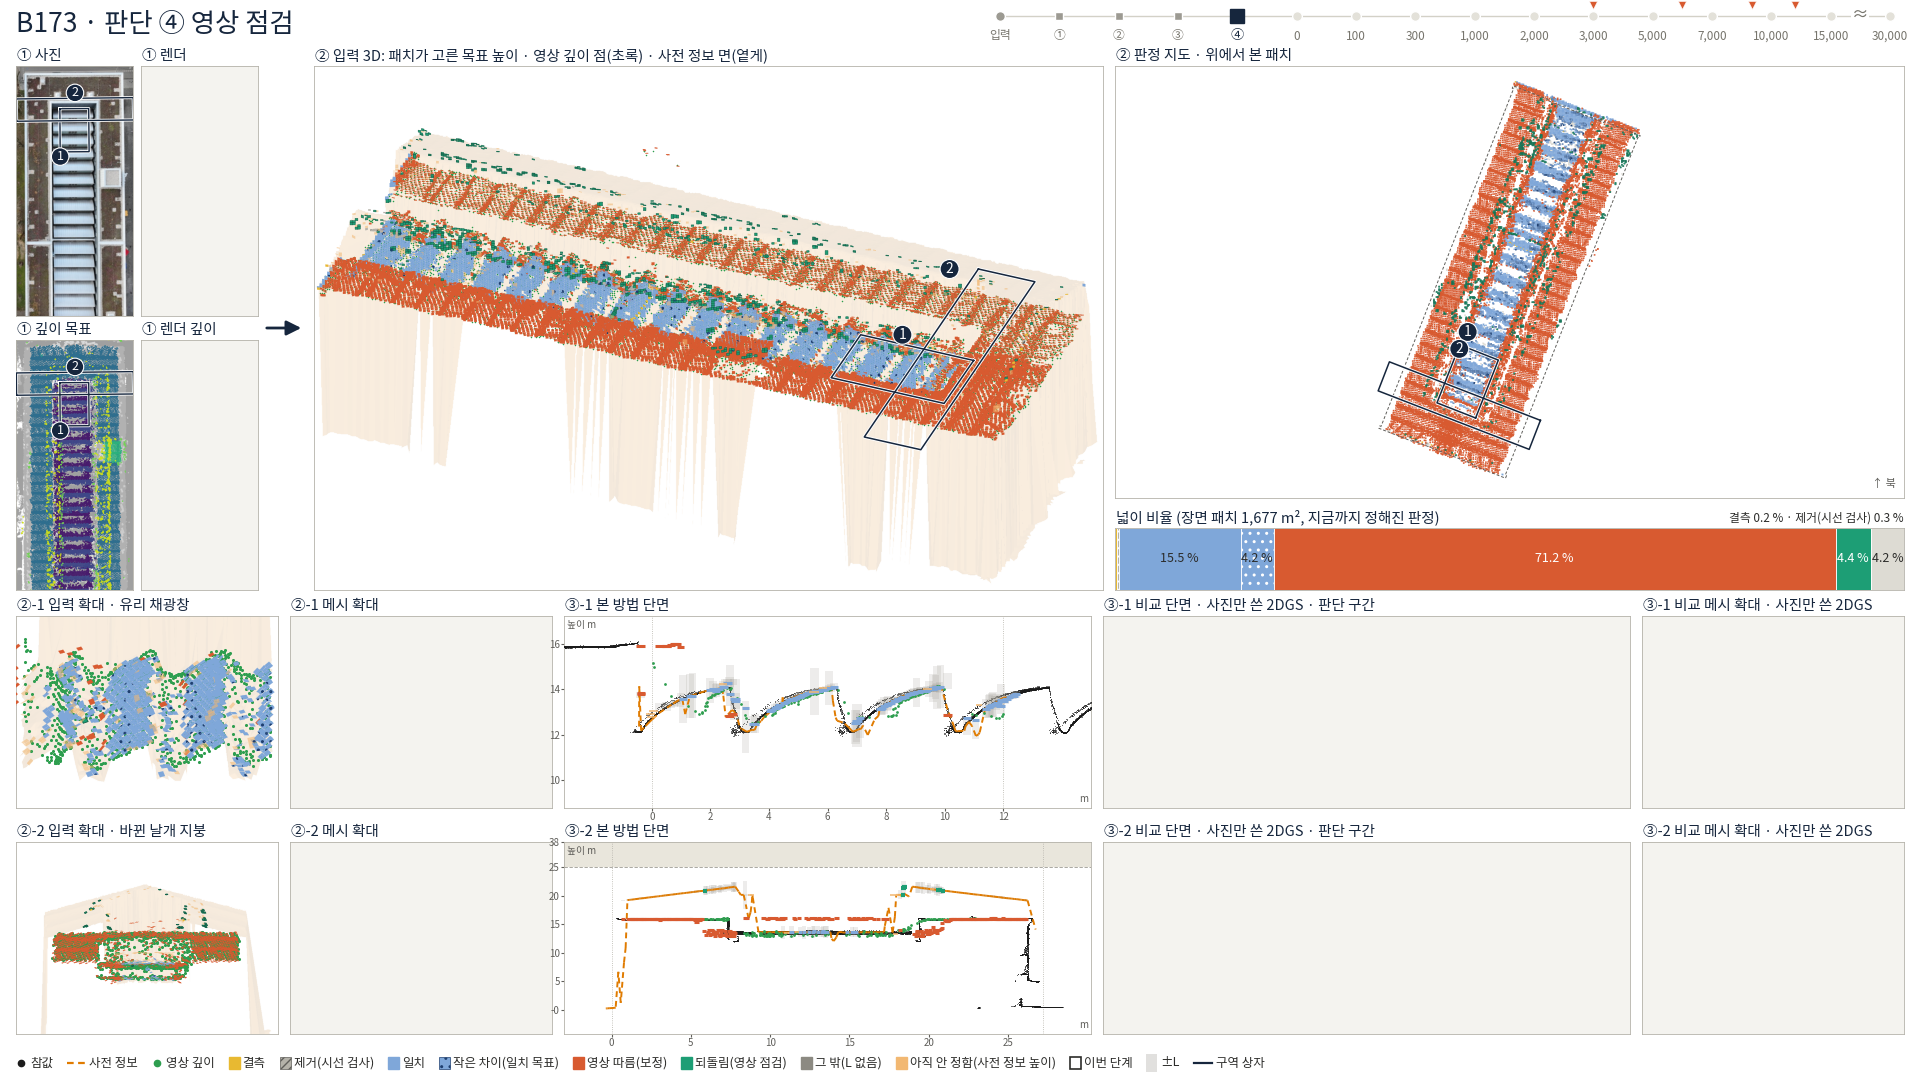
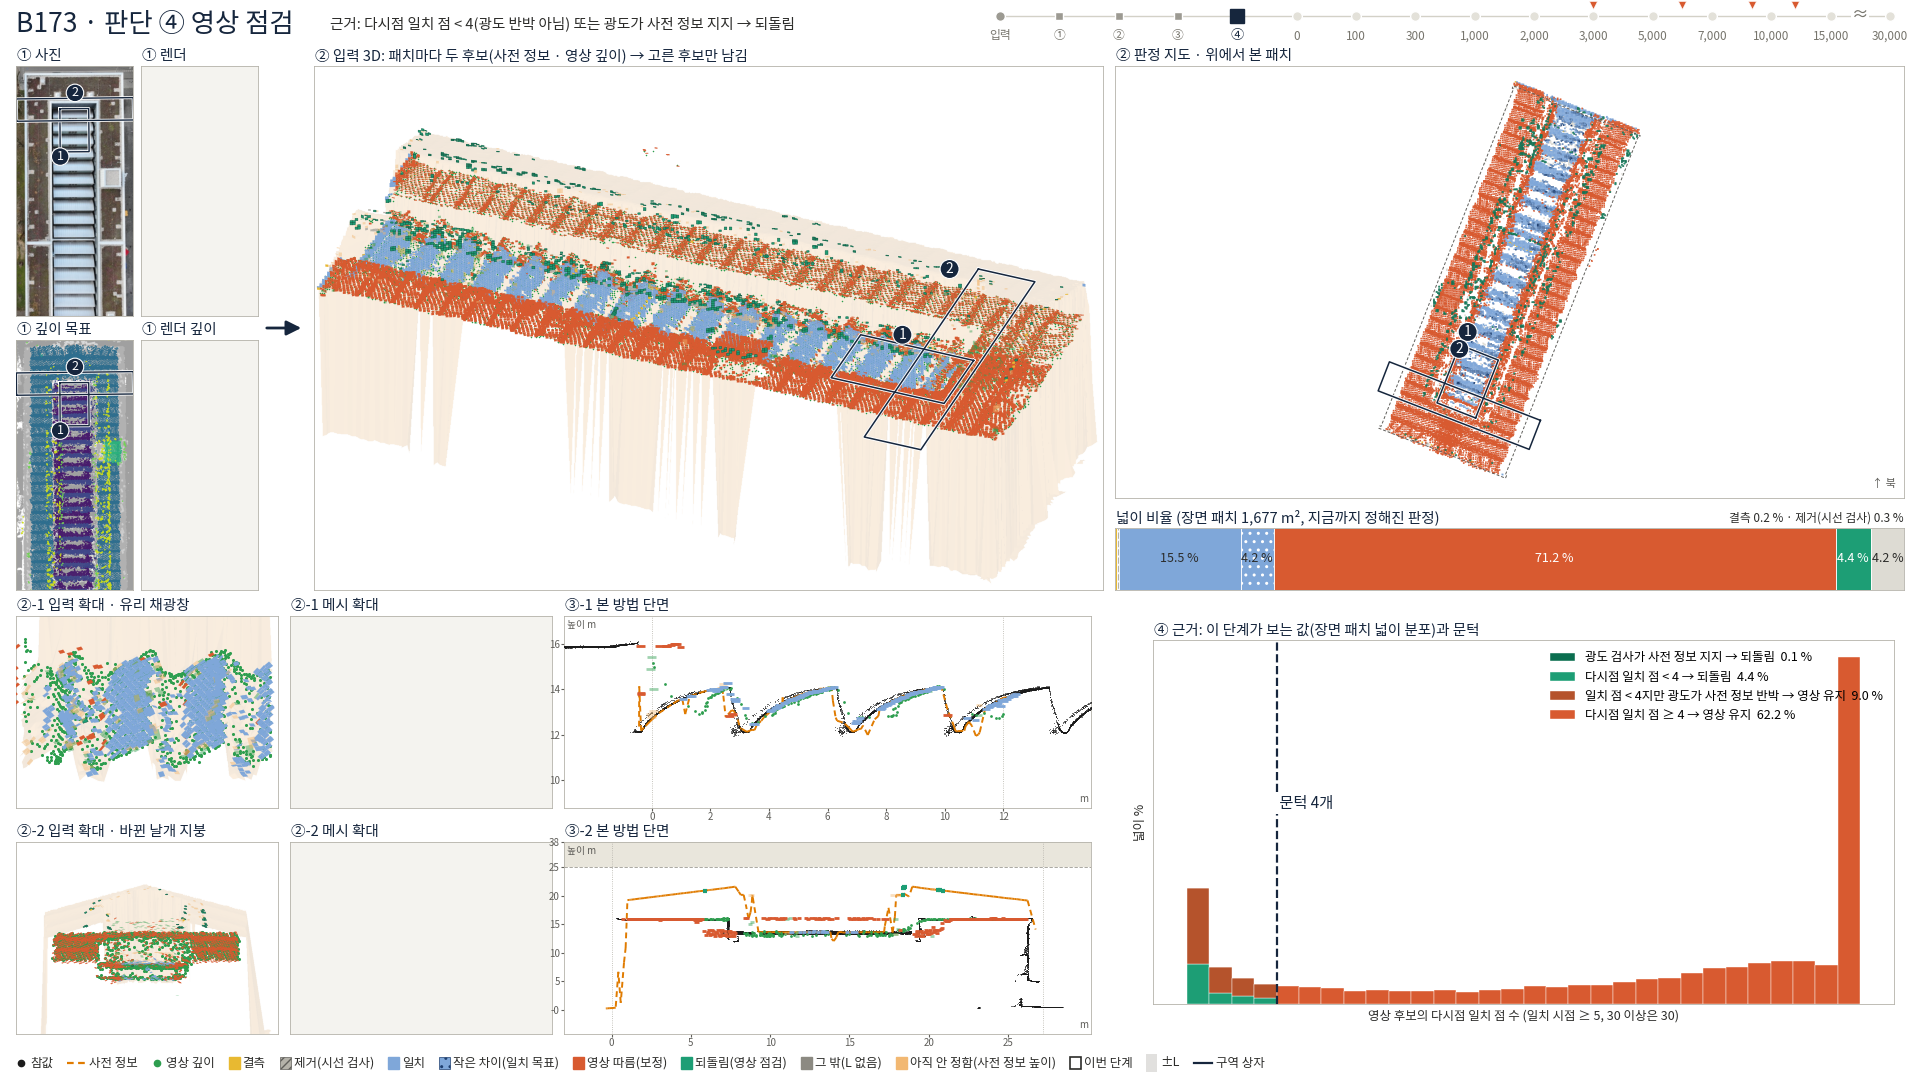
PHD-MAIN-JUDGEVIDEO-v1 v3: 두 후보 중 고른 후보만 남김, 단계별 근거 칸(값 분포·문턱)과 근거 문장, ④ 규칙 = combo_D_returned 대조

diff --git a/scripts/phd/main_judgevideo_v1/jv_frames.py b/scripts/phd/main_judgevideo_v1/jv_frames.py
@@ -62,6 +62,33 @@ def shown_h(p, stage):
     return h
 
 UNDEC_3D = '#F2B872'
+RULE = {'j1': '근거: 패치 원통 안 영상 깊이 점이 4개 미만 → 영상 후보 없음, 사전 정보만 남김 (시선 검사로 지운 점 포함)',
+        'j2': '근거: 두 후보의 차이 |d| 가 검출 한계 L 안 → 같은 면(일치), 두 후보의 가중 평균을 남김',
+        'j3': '근거: 차이가 유의할 때 |d| < 1.10 m(혼합 경계) → 작은 차이, 일치 목표 / |d| ≥ 1.10 m → 영상 후보를 남김',
+        'j4': '근거: 다시점 일치 점 < 4(광도 반박 아님) 또는 광도가 사전 정보 지지 → 되돌림',
+        'res': '판단 결과: 패치마다 남은 후보 하나 = 학습의 깊이 목표'}
+def layers(p, cat):
+    """candidates shown for each category: 0 = both candidates faint (prior tan, image green); decided = the kept candidate in its judgment colour."""
+    hP = p['prior_h']; hM = p['mvs_h']; tg = np.where(np.isfinite(p['target_h']), p['target_h'], hP); L = []
+    m0 = cat == 0; L += [(m0, hP, UNDEC_3D, .45), (m0 & np.isfinite(hM), hM, cf.MVC, .45)]
+    for k, h in [(1, hP), (11, hP), (2, tg), (3, tg), (31, hM), (4, hP), (5, tg)]: L.append((cat == k, h, SC[k], 1.))
+    return L
+def cand(p, cat, prevcat, new, a):
+    """all quads of this frame: (h, rgb, alpha, patch index). Non-new patches: their layers. New: previous layers fading out, new layers fading in."""
+    H, C, A, I = [], [], [], []
+    for which, cc, f in [(~new, cat, 1.), (new, prevcat, 1-a), (new, cat, a)]:
+        for m, h, col, al in layers(p, cc):
+            mm = m & which & np.isfinite(h)
+            if not mm.any() or al*f <= .01: continue
+            ix = np.flatnonzero(mm); H.append(h[ix]); C.append(np.broadcast_to(to_rgb(col), (len(ix), 3))); A.append(np.full(len(ix), al*f)); I.append(ix)
+    return np.concatenate(H), np.concatenate(C), np.concatenate(A), np.concatenate(I)
+def paint_c(ax, S, p, cq, view=None, sel=None, new=None, zorder=9):
+    H, C, A, I = cq
+    if sel is not None: k = sel[I]; H, C, A, I = H[k], C[k], A[k], I[k]
+    sub = {kk: p[kk][I] for kk in ('normal', 'tangent1', 'area', 'centre')}; Q = quads_h(sub, H); x, y, d = S.proj(Q.reshape(-1, 3), *(view or (None, None)))
+    Q2 = np.stack([x, y], 1).reshape(-1, 4, 2); o = np.argsort(-d.reshape(-1, 4).mean(1)); nw = new[I] if new is not None else np.zeros(len(I), bool)
+    ec = np.where(nw[:, None], .6*C, C)
+    ax.add_collection(PolyCollection(Q2[o], facecolors=np.c_[C, A][o], edgecolors=np.c_[ec, A][o], linewidths=np.where(nw, .35, .1)[o], zorder=zorder))
 def paint(ax, Q2, d, cat, new, alpha, lw_new=.35, zorder=9):
     """One painter-sorted collection (far first): not decided = prior colour at alpha .55, decided = its judgment colour, new = fading in with a darker edge;
     hatched categories get a hatch overlay."""
@@ -94,8 +121,10 @@ def visible(F, P, dep, ext, view=None):
 def draw(F, stage, alpha, png, cache, p):
     S = F.S; st = F.st; t0 = time.monotonic(); fig = F.fig = plt.figure(figsize=(W_/100, H_/100), dpi=100, facecolor='white')
     cat = stage_colours(p['step'], stage); new = np.isin(cat, NEW[stage])
-    prev = 'start' if stage == 'j1' else STAGES[STAGES.index(stage)-1]; h0, h1 = shown_h(p, prev), shown_h(p, stage); hh = h0+alpha*(h1-h0); Q = quads_h(p, hh)
+    prevcat = np.zeros(len(cat), int) if stage == 'j1' else stage_colours(p['step'], STAGES[STAGES.index(stage)-1]); cq = cand(p, cat, prevcat, new, alpha)
+    Q = quads_h(p, shown_h(p, stage))   # map xy and ① (kept candidate; not decided = no target yet)
     fig.text(16/W_, 1-24/H_, f'{BNAME} · {STITLE[stage]}', fontsize=19, color=NAVY, va='center', fontweight='bold')
+    fig.text(330/W_, 1-24/H_, RULE[stage], fontsize=10.5, color='#2C2C2A', va='center')
     # progress row: 입력, ①-④, 0 ... 30,000 (the r6 row with four dots inserted)
     labs = ['input', 'j1', 'j2', 'j3', 'j4']+cf.STATES; xs = np.linspace(1000, 1890, len(labs)); cur = labs.index('j4' if stage == 'res' else stage)
     ax = fig.add_axes([0, 1-44/H_, 1, 44/H_]); ax.set_xlim(0, W_); ax.set_ylim(44, 0); ax.axis('off'); ax.plot([xs[0], xs[-1]], [16, 16], color='#D3D1C7', lw=1, zorder=1)
@@ -112,7 +141,7 @@ def draw(F, stage, alpha, png, cache, p):
     a = F.axes(X0, Y0, pw, ph, '① 사진'); F.cam(a, cache['photo'])
     a = F.axes(X0, Y0+ph+24, pw, ph, '① 깊이 목표'); F.cam(a, cache['grey'], zones=False)
     u, v, zc = S.pix(Q.reshape(-1, 3)); Qc = np.stack([u, v], 1).reshape(-1, 4, 2); zc = zc.reshape(-1, 4).mean(1); hz = Q.mean(1)[:, 2]-S.ground
-    bi = np.clip(np.searchsorted(F.bins, hz, side='right')-1, 0, cf.NBIN-1); o = np.argsort(-zc); ok = np.isfinite(Qc).all((1, 2))[o]
+    bi = np.clip(np.searchsorted(F.bins, hz, side='right')-1, 0, cf.NBIN-1); o = np.argsort(-zc); ok = (np.isfinite(Qc).all((1, 2)) & (cat > 0))[o]
     a.add_collection(PolyCollection(Qc[o][ok], facecolors=F.hcol[bi[o][ok]], edgecolors=F.hcol[bi[o][ok]], linewidths=.2, zorder=8))
     for k_, z in S.zones.items():
         ring = np.asarray(F.sj['zones'][str(k_)]['box_polygon_xy']); P_ = np.c_[ring, np.full(len(ring), F.sj['zones'][str(k_)]['outline_z'])]; uu, vv, _ = S.pix(P_)
@@ -123,11 +152,11 @@ def draw(F, stage, alpha, png, cache, p):
     ar = FancyArrowPatch(((X0+2*pw+gap+6)/W_, 1-(Y0+ph+12)/H_), ((X0+2*pw+gap+46)/W_, 1-(Y0+ph+12)/H_), transform=fig.transFigure, arrowstyle='-|>', mutation_scale=22, color=NAVY, lw=2); fig.patches.append(ar)
     # ② input 3D
     X2 = X0+2*pw+gap+56; w2 = (W_-16-X2-12)//2; h2 = 2*ph+24; ext = cache['ext']
-    ag = F.axes(X2, Y0, w2, h2, '② 입력 3D: 패치가 고른 목표 높이 · 영상 깊이 점(초록) · 사전 정보 면(옅게)')
+    ag = F.axes(X2, Y0, w2, h2, '② 입력 3D: 패치마다 두 후보(사전 정보 · 영상 깊이) → 고른 후보만 남김')
     img, dep = cache['prior_overview']; ag.imshow(np.dstack([img, np.where(np.isfinite(dep), .22, 0.)]), extent=ext, zorder=1); ag.set_xlim(ext[0], ext[1]); ag.set_ylim(ext[2], ext[3]); ag.set_aspect('equal')
     F.mvs_points(ag, np.full_like(dep, np.inf), ext, w2, h2, 2, 1.2)
-    x, y, d = S.proj(Q.reshape(-1, 3)); Q2 = np.stack([x, y], 1).reshape(-1, 4, 2); dd = d.reshape(-1, 4).mean(1)
-    paint(ag, Q2, dd, cat, new, alpha); F.zone_outline(ag, 1); F.zone_outline(ag, 2)
+    x, y, d = S.proj(Q.reshape(-1, 3)); Q2 = np.stack([x, y], 1).reshape(-1, 4, 2)
+    paint_c(ag, S, p, cq, new=new); F.zone_outline(ag, 1); F.zone_outline(ag, 2)
     if stage == 'j1':
         m = new.copy(); ag.scatter(Q2[m].mean(1)[:, 0], Q2[m].mean(1)[:, 1], s=60, facecolors='none', edgecolors=[SC[c_] for c_ in cat[m]], linewidths=1.1, alpha=alpha, zorder=12)
     # ② map (top view) + bar
@@ -160,19 +189,25 @@ def draw(F, stage, alpha, png, cache, p):
         Y = 616+row*226; zj = F.sj['zones'][str(k)]; zext = F.frame_ext(zj['zoom_extent'], wz, hz, .06); zv = (np.asarray(zj['zoom_basis']), np.asarray(zj['zoom_centre'])); cn = cf.COMP[k]['name']
         xg = 16; xm = xg+wz+gz; xs1 = xm+wz+gz; xs2 = xs1+ws+gz; xc = xs2+ws+gz
         a_g = F.axes(xg, Y, wz, hz, f'②-{k} 입력 확대 · {cf.ZNAME[k]}'); F.blank(F.axes(xm, Y, wz, hz, f'②-{k} 메시 확대'))
-        a_s = F.axes(xs1, Y, ws, hz, f'③-{k} 본 방법 단면'); a_c = F.axes(xs2, Y, ws, hz, f'③-{k} 비교 단면 · {cn} · 판단 구간'); F.blank(a_c); F.blank(F.axes(xc, Y, wz, hz, f'③-{k} 비교 메시 확대 · {cn}'))
+        a_s = F.axes(xs1, Y, ws, hz, f'③-{k} 본 방법 단면'); 
         zimg, zdep = cache[f'prior_zoom{k}']; a_g.imshow(np.dstack([zimg, np.where(np.isfinite(zdep), .22, 0.)]), extent=zext, zorder=1); F.mvs_points(a_g, np.full_like(zdep, np.inf), zext, wz, hz, 3, 5, zone=k, view=zv)
-        zsel = cache[f'zsel{k}']; x, y, d = S.proj(Q[zsel].reshape(-1, 3), *zv); Qz = np.stack([x, y], 1).reshape(-1, 4, 2); dz = d.reshape(-1, 4).mean(1)
-        paint(a_g, Qz, dz, cat[zsel], new[zsel], alpha, lw_new=.6); a_g.set_xlim(zext[0], zext[1]); a_g.set_ylim(zext[2], zext[3]); a_g.set_aspect('equal')
+        zsel = cache[f'zsel{k}']; paint_c(a_g, S, p, cq, view=zv, sel=zsel, new=new); a_g.set_xlim(zext[0], zext[1]); a_g.set_ylim(zext[2], zext[3]); a_g.set_aspect('equal')
         F.section(a_s, k, layers=('gt', 'prior', 'mvs'))
         b = cache[f'band{k}']; Yf = lambda h: F.ymap(k, h); cb = cat[b['i']]
-        if STAGES.index(stage) >= 1:   # +-L band of every patch in the band (grey)
+        if stage == 'j2':   # evidence of step 2: +-L band of every patch in the band (grey)
             ok = np.isfinite(b['L']); a_s.add_collection(PolyCollection([[(s0-b['w'][j], Yf(h-l)), (s0+b['w'][j], Yf(h-l)), (s0+b['w'][j], Yf(h+l)), (s0-b['w'][j], Yf(h+l))]
                                                                          for j, (s0, h, l) in enumerate(zip(b['s'], b['hp'], b['L']*b['nz'])) if ok[j]], facecolors='#9C9A92', edgecolors='none', alpha=.18, zorder=3.5))
-        hb = Q[b['i']].mean(1)[:, 2]-S.ground; ok = np.isfinite(hb)
-        segs = [[(b['s'][j]-b['w'][j], Yf(hb[j])), (b['s'][j]+b['w'][j], Yf(hb[j]))] for j in np.flatnonzero(ok)]
-        rgba = [(*to_rgb(UNDEC_3D if cb[j] == 0 else SC[cb[j]]), .8 if cb[j] == 0 else 1.) for j in np.flatnonzero(ok)]; lws = [1.4 if cb[j] == 0 else (3. if new[b['i'][j]] else 2.2) for j in np.flatnonzero(ok)]
-        if segs: a_s.add_collection(LineCollection(segs, colors=rgba, linewidths=lws, zorder=6, capstyle='butt'))
+        H, Cc, Aa, I = cq; pos = {int(i): j for j, i in enumerate(b['i'])}; kk = np.array([int(i) in pos for i in I])
+        if kk.any():
+            jj = np.array([pos[int(i)] for i in I[kk]]); nz = b['nz'][jj]; hh_ = (p['centre'][I[kk], 2]+p['normal'][I[kk], 2]*H[kk])-S.ground
+            segs = [[(b['s'][j]-b['w'][j], Yf(h_)), (b['s'][j]+b['w'][j], Yf(h_))] for j, h_ in zip(jj, hh_)]; nw = new[I[kk]]
+            a_s.add_collection(LineCollection(segs, colors=np.c_[Cc[kk], Aa[kk]], linewidths=np.where(nw, 3., 2.), zorder=6, capstyle='butt'))
+        if stage == 'j3':   # evidence of step 3: +-1.10 m around the prior candidate of the significant patches
+            sg = p['sig'][b['i']]; ok3 = sg & np.isfinite(b['hp'])
+            a_s.add_collection(LineCollection([[(s0-b['w'][j], Yf(h+1.10*nz_)), (s0+b['w'][j], Yf(h+1.10*nz_))] for j, (s0, h, nz_) in enumerate(zip(b['s'], b['hp'], b['nz'])) if ok3[j]]
+                                              + [[(s0-b['w'][j], Yf(h-1.10*nz_)), (s0+b['w'][j], Yf(h-1.10*nz_))] for j, (s0, h, nz_) in enumerate(zip(b['s'], b['hp'], b['nz'])) if ok3[j]], colors='#5F5E5A', linewidths=.6, zorder=5.5))
+    ae = F.axes(xs2+50, 616+24, W_-16-xs2-60, 2*hz+226-hz-24-30, '④ 근거: 이 단계가 보는 값(장면 패치 넓이 분포)과 문턱' if stage != 'res' else '판단 결과: 판정 · 근거 · 넓이')
+    evidence(ae, stage, p, cat, alpha, cache['Atot'])
     # legend
     lax = fig.add_axes([0, 0, 1, 34/H_]); lax.axis('off'); lax.set_xlim(0, W_); lax.set_ylim(0, 34); x = 16
     items = [('pt', GTC, '참값'), ('dash', PRC, '사전 정보'), ('pt', MVC, '영상 깊이'), ('box', SC[1], '결측'), ('hbox', 11, '제거(시선 검사)'), ('box', SC[2], '일치'), ('hbox', 3, '작은 차이(일치 목표)'),
@@ -187,6 +222,41 @@ def draw(F, stage, alpha, png, cache, p):
         x += 14 if kind in ('pt', 'box', 'hbox', 'edge', 'lband') else 22; t = lax.text(x, 17, txt, fontsize=9, va='center', color='#2C2C2A'); x += t.get_window_extent(fig.canvas.get_renderer()).width+14
     png.parent.mkdir(parents=True, exist_ok=True); fig.savefig(png, dpi=100, facecolor='white'); plt.close(fig)
     return round(time.monotonic()-t0, 1)
+
+def evidence(ax, stage, p, cat, alpha, Atot):
+    A = p['area']; ax.tick_params(labelsize=8, colors='#5F5E5A'); ax.set_xticks([]); ax.set_yticks([])
+    def hist(x, groups, bins, logx=False, thr=None, thr_lab='', xlab=''):
+        bottom = np.zeros(len(bins)-1)
+        for m, col, lab, hatch in groups:
+            ok = m & np.isfinite(x); h, _ = np.histogram(x[ok], bins=bins, weights=A[ok]); h = 100*h/Atot
+            ax.bar(bins[:-1], h, width=np.diff(bins), bottom=bottom, align='edge', color=col, edgecolor='white', lw=.3, hatch=hatch, label=f'{lab}  {100*A[ok].sum()/Atot:.1f} %'); bottom += h
+        if logx: ax.set_xscale('log')
+        if thr is not None:
+            ax.axvline(thr, color=NAVY, lw=1.6, ls='--'); ax.text(thr, .55, f' {thr_lab}', transform=ax.get_xaxis_transform(), color=NAVY, fontsize=11, va='center', ha='left', fontweight='bold', bbox=dict(fc='white', ec='none', pad=1))
+        ax.set_xlabel(xlab, fontsize=9, color='#2C2C2A'); ax.set_ylabel('넓이 %', fontsize=9, color='#2C2C2A'); ax.tick_params(axis='both', labelsize=8, length=2)
+        ax.legend(loc='upper right', fontsize=9, frameon=False)
+    sig = p['sig']; n = p['n'].astype(float); dabs = np.abs(p['d']); L = p['L']
+    if stage == 'j1':
+        hist(np.minimum(n, 40), [(n < 4, SC[1], '영상 점 < 4 → 사전 정보만', None), (n >= 4, '#C9C6BC', '영상 점 ≥ 4 → 다음 단계로', None)], np.arange(0, 41, 1), thr=4, thr_lab='문턱 4개', xlab='패치 원통 안 영상 깊이 점 수 (40 이상은 40)')
+    elif stage == 'j2':
+        r = dabs/L; inn = (n >= 4) & np.isfinite(r)
+        hist(np.clip(r, .01, 100), [(inn & ~sig, SC[2], '|d| ≤ L: 일치 → 가중 평균', None), (inn & sig, '#C9C6BC', '|d| > L: 유의한 차이 → 다음 단계로', None)], np.logspace(-2, 2, 41), True, 1., '|d| = L', '두 후보 차이 ÷ 검출 한계 (|d| / L, 로그)')
+    elif stage == 'j3':
+        hist(np.clip(dabs, .02, 20), [(sig & (p['mix'] == 0), SC[3], '|d| < 1.10 m: 작은 차이 → 일치 목표', '..'), (sig & (p['mix'] == 1), SC[31], '|d| ≥ 1.10 m: 영상 후보를 남김', None)], np.logspace(np.log10(.02), np.log10(20), 41), True, 1.10, '1.10 m', '유의한 패치의 두 후보 차이 |d| m (로그)')
+    elif stage == 'j4':
+        big = sig & (p['mix'] == 1); a2 = np.minimum(p['a2n'].astype(float), 30); ph = p['photo']
+        hist(a2, [(big & p['ret'] & (ph == '지지'), '#0B6E4F', '광도 검사가 사전 정보 지지 → 되돌림', None), (big & p['ret'] & (ph != '지지'), SC[4], '다시점 일치 점 < 4 → 되돌림', None),
+                  (big & ~p['ret'] & (a2 < 4), '#B5532C', '일치 점 < 4지만 광도가 사전 정보 반박 → 영상 유지', None), (big & ~p['ret'] & (a2 >= 4), SC[31], '다시점 일치 점 ≥ 4 → 영상 유지', None)],
+             np.arange(0, 31, 1), thr=4, thr_lab='문턱 4개', xlab='영상 후보의 다시점 일치 점 수 (일치 시점 ≥ 5, 30 이상은 30)')
+    else:
+        rows = [(1, '영상 점 < 4'), (11, '시선 검사로 영상 점 지움'), (2, '|d| ≤ L'), (3, '|d| > L, |d| < 1.10 m'), (31, '|d| ≥ 1.10 m, 다시점·광도 통과'), (4, '|d| ≥ 1.10 m, 다시점 부족 또는 광도 지지'), (5, '면 맞춤 불가(L 없음), 저장 판정')]
+        keep = {1: '사전 정보', 11: '사전 정보', 2: '가중 평균', 3: '가중 평균', 31: '영상 깊이', 4: '사전 정보', 5: '저장 판정대로'}
+        ax.set_xlim(0, 1); ax.set_ylim(len(rows)+.5, -.8); ax.axis('off')
+        for x_, t in [(.02, '판정'), (.30, '근거'), (.72, '남긴 후보'), (.92, '넓이 %')]: ax.text(x_, -.4, t, fontsize=10, color=NAVY, fontweight='bold')
+        for i, (k, why) in enumerate(rows):
+            y = i+.5; ax.add_patch(plt.Rectangle((.0, y-.3), .015, .6, color=SC[k], hatch=HATCH.get(k)))
+            ax.text(.02, y, SN[k], fontsize=10, va='center'); ax.text(.30, y, why, fontsize=10, va='center'); ax.text(.72, y, keep[k], fontsize=10, va='center')
+            ax.text(.98, y, f'{100*A[cat == k].sum()/Atot:.1f}', fontsize=10, va='center', ha='right')
 
 def prepare(F):
     S = F.S; st = F.st; p = loadz(OUT/'scene_patches_ALS.npz'); cache = dict(p=p); Q = quads(p); cache['Q'] = Q; cache['Atot'] = float(p['area'].sum())

diff --git a/scripts/phd/main_judgevideo_v1/jv_prep.py b/scripts/phd/main_judgevideo_v1/jv_prep.py
@@ -21,7 +21,7 @@ from pathlib import Path
 MF = Path('/art/phase-payloads/phd/main_mvsfilter_v1/PHD-MAIN-MVSFILTER-v1/judge/patches4_ALS.csv.gz')
 JP = Path('/art/phase-payloads/phd/main_judgeprobe_v1/PHD-MAIN-JUDGEPROBE-v1/patch_ALS.npz')
 OUT = Path('/out'); JD = Path('/jdocs')
-COLS = ['patch_index', 'patch_id', 'kind', 'area', 'none_n', 'none_judgment', 'none_significant', 'region', 'building', 'd_m', 'L_m', 'mix_large', 'combo_D_returned', 'combo_D_judgment']
+COLS = ['patch_index', 'patch_id', 'kind', 'area', 'none_n', 'none_judgment', 'none_significant', 'region', 'building', 'd_m', 'L_m', 'mix_large', 'combo_D_returned', 'combo_D_judgment', 'A2_n', 'photo_result']
 STEPN = {0: '아직 안 정함', 1: '① 결측', 11: '① 제거(시선 검사)', 2: '② 일치', 3: '③ 작은 차이(일치 목표)', 31: '③ 영상 따름', 4: '④ 되돌림(영상 점검)'}
 def main():
     c = cfg(); t = pd.read_csv(MF, usecols=COLS); z = loadz(JP, ['centre', 'normal', 'tangent1', 'area', 'prior_height_m', 'mvs_mean_m', 'sigma_P', 'u_M', 'd_m', 'L_m', 'n', 'kind'])
@@ -45,7 +45,10 @@ def main():
     with np.errstate(invalid='ignore', divide='ignore'): wavg = (hP/sP**2 + hM/uM**2)/(1/sP**2 + 1/uM**2)
     tgt = np.where(fin == 2, hM, np.where(fin == 0, np.where(np.isfinite(wavg), wavg, hP), hP))
     savez(OUT/'scene_patches_ALS.npz', patch_index=ix, patch_id=np.array(s['patch_id'].astype(str).tolist()), step=step, final=fin, area=s['area'].values.astype(float), centre=P[ix], normal=z['normal'][ix], tangent1=z['tangent1'][ix],
-          prior_h=hP, mvs_h=hM, target_h=tgt, L=s['L_m'].values.astype(float), d=s['d_m'].values.astype(float), n=n.astype(int), sig=sig.astype(bool), mix=mix.astype(float), ret=ret.astype(bool))
+          prior_h=hP, mvs_h=hM, target_h=tgt, L=s['L_m'].values.astype(float), d=s['d_m'].values.astype(float), n=n.astype(int), sig=sig.astype(bool), mix=mix.astype(float), ret=ret.astype(bool), j0=j0.astype(int), a2n=s['A2_n'].values.astype(int), photo=np.array(s['photo_result'].fillna('').astype(str).tolist()))
+    # v3 evidence of step 4 (mf18 base3): returned = (sig & 0 <= A2_n < 4 & photo != 반박) | (sig & photo == 지지); check against the stored combo_D_returned
+    a2 = s['A2_n'].values; ph = s['photo_result'].fillna('').values; rr = (sig & (a2 >= 0) & (a2 < 4) & (ph != '반박')) | (sig & (ph == '지지'))
+    ck['step4_rule_equals_combo_D_returned'] = bool(np.array_equal(rr, ret)); ck['photo_values'] = {str(k): int(v) for k, v in pd.Series(ph[sig & (mix == 1)]).value_counts().items()}
     rec = dict(at=now(), rule=__doc__, inputs={str(MF): sha(MF), str(JP): sha(JP)}, checks=ck, scientific_verdict=None); dump(OUT/'scene_patches_ALS.json', rec)
     print(json.dumps(ck, ensure_ascii=False, indent=1)[:4000])
 main()
